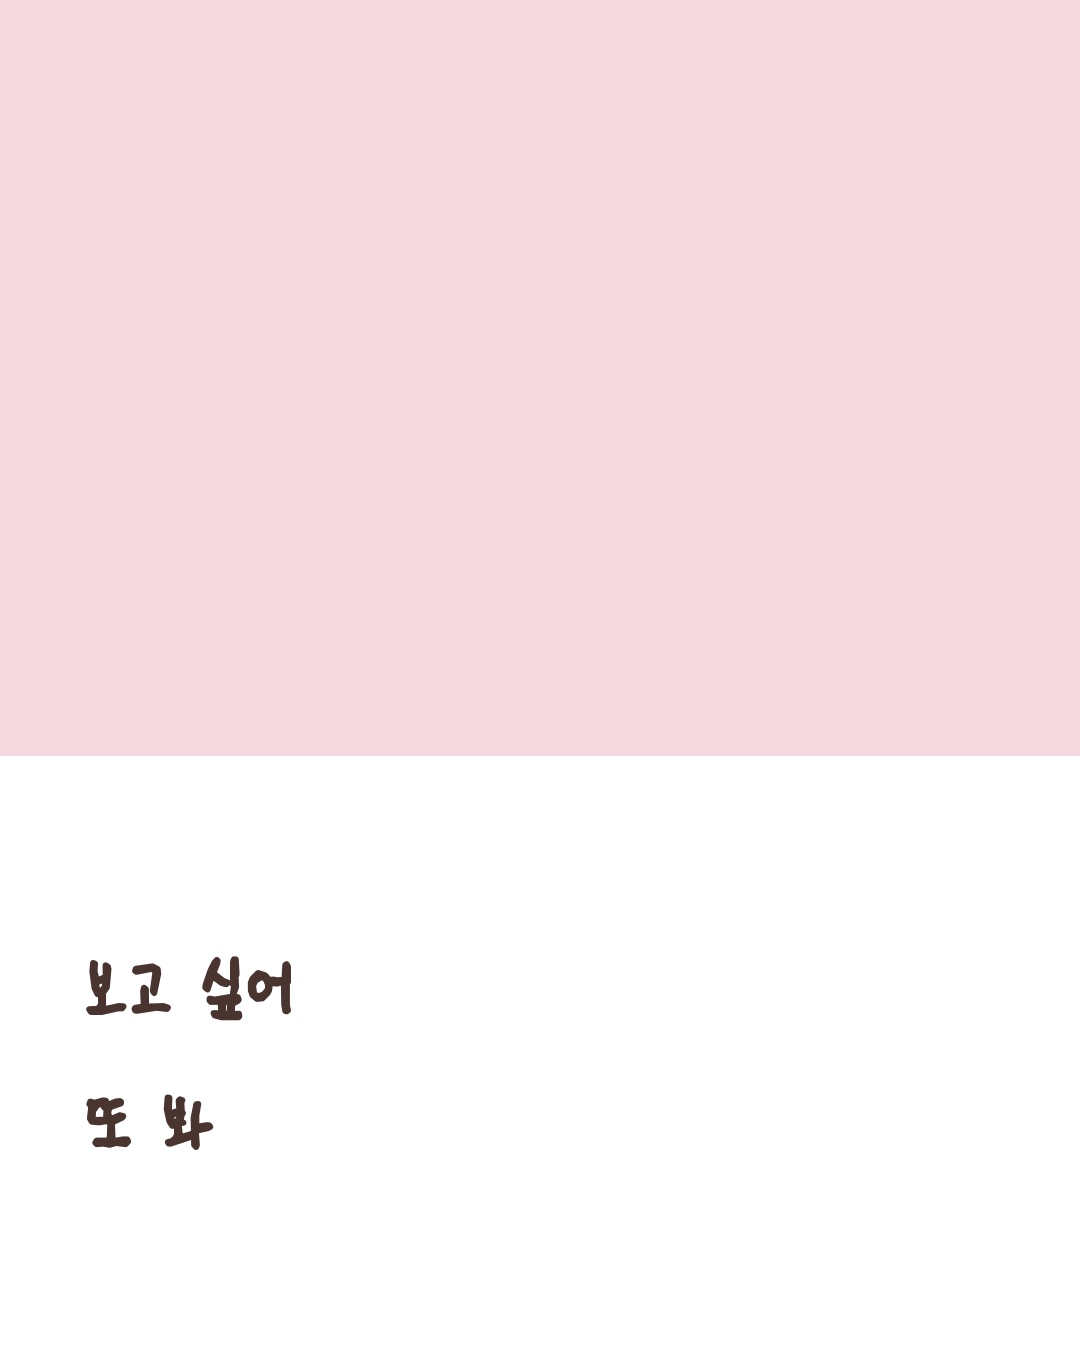
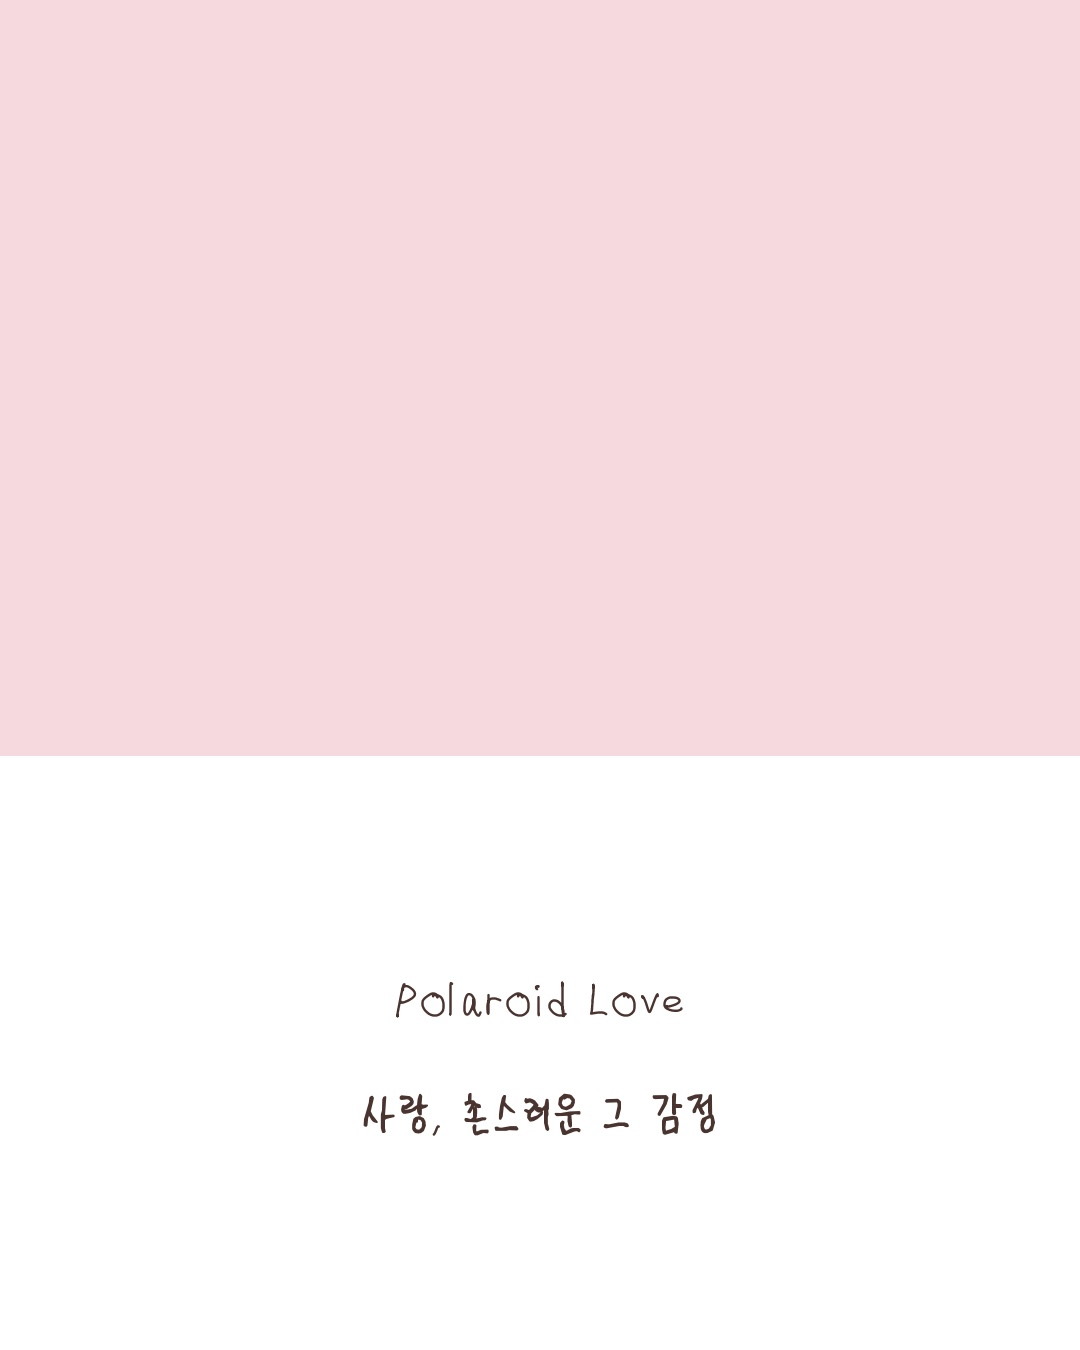
feat: 엽서를 감성 무드보드로(가사·편지 톤) — 가운데 정렬·가는 산뜻체
- 초록=완벽한 날씨/딱 맞는 Playlist, 핑크=Polaroid Love/사랑 촌스러운 그 감정,
  데스크=Dear younger me/Love older you
- 노트 텍스트 가운데 정렬(폴라로이드), 메시지 굵기 절반(제목 아님)
- 무드보드가 자체로 무드 전달 → 캡션(로마자 병기) 제거

diff --git a/src/components/postcard/Postcard/Postcard.tsx b/src/components/postcard/Postcard/Postcard.tsx
@@ -1,5 +1,4 @@
 import { useLang } from '@/contexts/LangContext'
-import type { TranslationKey } from '@/i18n/config'
 import Section from '@/components/ui/Section/Section'
 import SectionHeading from '@/components/ui/SectionHeading/SectionHeading'
 import './Postcard.css'
@@ -7,26 +6,22 @@ import './Postcard.css'
 interface Card {
   src: string
   alt: string
-  captionKey: TranslationKey
 }
 
-// 산뜻체 손글씨 + 사진/파스텔 배경으로 만든 실제 엽서(4:5).
-// 메시지는 Maya 결(팬·자기표현). 영어 페이지는 캡션에 로마자·뜻 병기(한글 학습 즐거움), 한국어는 생략.
+// 산뜻체 손글씨 + 사진/파스텔 배경 무드보드 엽서(4:5). 감성 가사·편지 톤으로 통일.
+// 카드 자체가 영어+한글로 무드를 전하므로 별도 캡션(로마자 병기)은 두지 않는다.
 const CARDS: Card[] = [
   {
     src: '/assets/postcard-walk.jpg',
-    alt: 'A handwritten postcard reading 사랑해 over a photo of summer green trees',
-    captionKey: 'pc_cap1',
+    alt: 'A handwritten postcard over summer green trees: 완벽한 날씨 딱 맞는 Playlist',
   },
   {
     src: '/assets/postcard-pastel.jpg',
-    alt: 'A handwritten postcard reading 보고 싶어 / 또 봐 on a soft pink background',
-    captionKey: 'pc_cap2',
+    alt: 'A handwritten postcard on soft pink: Polaroid Love, 사랑 촌스러운 그 감정',
   },
   {
     src: '/assets/postcard-desk.jpg',
-    alt: 'A handwritten postcard reading 고마워 over a cozy desk photo',
-    captionKey: 'pc_cap3',
+    alt: 'A handwritten postcard over a cozy desk: Dear younger me, Love older you',
   },
 ]
 
@@ -37,15 +32,11 @@ export default function Postcard() {
       <p className="postcard-soon">{t('pc_soon')}</p>
       <SectionHeading label={t('pc_label')} title={t('pc_title')} sub={t('pc_sub')} />
       <div className="postcard-gallery">
-        {CARDS.map((card) => {
-          const caption = t(card.captionKey)
-          return (
-            <figure className="postcard-card" key={card.src}>
-              <img src={card.src} alt={card.alt} loading="lazy" width={1080} height={1350} />
-              {caption && <figcaption>{caption}</figcaption>}
-            </figure>
-          )
-        })}
+        {CARDS.map((card) => (
+          <figure className="postcard-card" key={card.src}>
+            <img src={card.src} alt={card.alt} loading="lazy" width={1080} height={1350} />
+          </figure>
+        ))}
       </div>
     </Section>
   )